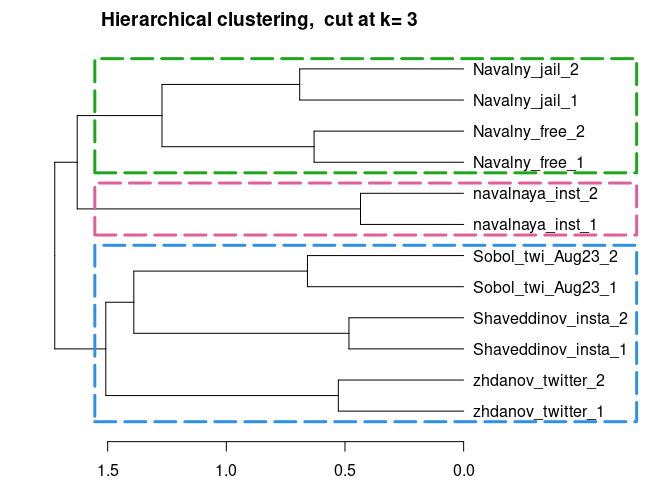
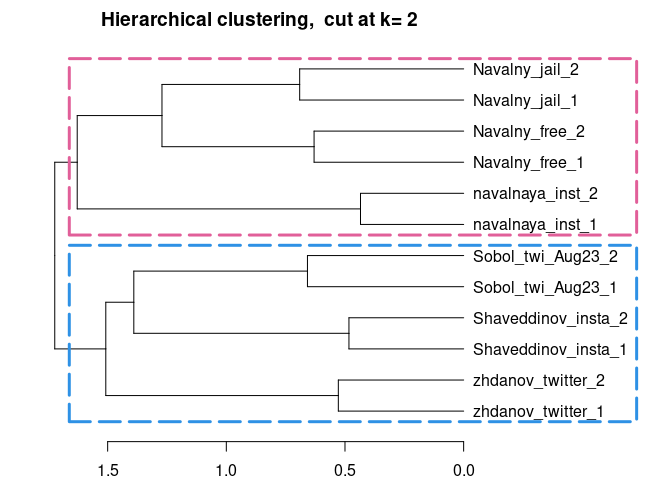
impostors update

diff --git a/stylometry_navalny.md b/stylometry_navalny.md
@@ -3,6 +3,7 @@ AA: Navalny
 Artjoms Šeļa
 2023-08-17
 
+- <a href="#tldr-so-far" id="toc-tldr-so-far">tl;dr (so far)</a>
 - <a href="#setup" id="toc-setup">Setup</a>
 - <a href="#data-wrangling--book-keeping"
   id="toc-data-wrangling--book-keeping">Data wrangling &amp; book
@@ -21,7 +22,40 @@ Artjoms Šeļa
   - <a href="#character-n-grams" id="toc-character-n-grams">Character
     n-grams</a>
   - <a href="#words" id="toc-words">Words</a>
-- <a href="#tldr-so-far" id="toc-tldr-so-far">tl;dr (so far)</a>
+- <a href="#general-impostors" id="toc-general-impostors">General
+  impostors</a>
+  - <a href="#impostors-larger-samples"
+    id="toc-impostors-larger-samples">Impostors: larger samples</a>
+  - <a href="#impostors-char-n-grams"
+    id="toc-impostors-char-n-grams">Impostors: char n-grams</a>
+
+## tl;dr (so far)
+
+For now: `Navalny_free` vs `Navalny_jail` samples show stable
+bootstrapped differences. Dendograms and consensus trees, however,
+indicate that both Navalnys share some degree of similarity. It is
+unclear how distance distributions are driven by random sampling and
+topical/register differences.
+
+////
+
+So far, there is **no other candidate author, except Navalny himself**,
+that emerges for `Navalny_jail`.
+
+////
+
+General impostors method (testing `Navalny_jail` against each candidate
+class separately) is skewing towards Navalny’s authorhsip, and is more
+decisive on larger sample sizes (both for words and char n-grams).
+However, there is enough evidence **to doubt GI’s confidence at
+eliminating candidates** with the current data.
+
+It looks as if the between-author relationships are muddied, very much
+dependent on analysed features and thematic/time differences between
+texts. It might suggests that ‘Navalny free’ corpus is stylistically
+heterogenous too: look how uncharacteristically high its mean distance
+is, and compare to very much distinct voice of Navalnaya. More corpus
+control/checks are needed.
 
 ## Setup
 
@@ -188,7 +222,7 @@ candidates for excluding from analysis.
 
 ``` r
 view_tree(st_words,
-          k=3,
+          k=2,
           right_margin = 10,
           p=0.05)
 ```
@@ -340,22 +374,148 @@ d_res_w %>%
 
 ![](stylometry_navalny_files/figure-gfm/unnamed-chunk-11-1.png)<!-- -->
 
-## tl;dr (so far)
+## General impostors
 
-For now: `Navalny_free` vs `Navalny_jail` samples show stable
-bootstrapped differences. Dendograms and consensus trees, however,
-indicate that both Navalnys share fleeting distant similarity. It is
-unclear how distance distributions are driven by random sampling and
-topical/register differences. So far, there is no other candidate author
-emerging for `Navalny_jail`.
+Let’s run general impostors method on larger samples and words
+frequencies. We also will remove words that influence overarching
+clustering.
 
-It looks as if the between-author relationships are mudded, very much
-dependent on analysed features and thematic/time differences between
-texts. It might suggests that ‘Navalny free’ corpus is stylistically
-heterogenous too: look how uncharacteristically high its mean distance
-is, and compare to very much distinct voice of Navalnaya. More corpus
-control/checks are needed.
+The goal of the method is determine the *affinity* of a target sample
+(in our case - Navalny in jail) to a set of candidates/impostors.
+Imposters are there to provide a stylistic alternative bucket to a
+candidate (in our case - free Navalny). Method records the proportion of
+times target text fit to each candidate class (nearest-neighbor method).
 
-Problems: hard to take independent random samples with how it is
-implemented in stylo, so Document 1 vs. Document 1 measures might be
-contaminated, which inflates same-class similarities.
+Words that we are excluding based on feature-to-cluster association:
+
+`россия` `навальный` `война` `мир` `против` `человек`
+
+``` r
+strong_words <- c("^росси", "^навальн", "^войн", "^мир", "^против$", "^челов")
+```
+
+Start with some manual stylo labor in the bowels of this library.
+
+``` r
+# loading the files from a specified directory:
+tokenized.texts = load.corpus.and.parse(files = list.files("corpus_clean/",full.names = T),sampling = "normal.sampling",sample.size = 2500)
+
+# computing a list of most frequent words (trimmed to top 2000 items):
+features = make.frequency.list(tokenized.texts, head = 5000)
+# producing a table of relative frequencies:
+data = make.table.of.frequencies(tokenized.texts, features, relative = TRUE)[,1:200]
+## detecting strong content words
+s_words <- str_detect(colnames(data),paste(strong_words,collapse="|"))
+
+data <- data[,!s_words]
+
+rownames(data) <- rownames(data) %>% str_remove_all("corpus_clean//")
+rownames(data) <- str_replace_all(rownames(data), "Navalny_jail", "NavalnyJail")
+```
+
+Now, let’s try to determine the ‘confidence scope’ for a given corpus.
+Values between which lies the uncertain ‘i don’t know’ zone.
+
+``` r
+imposters.optimize(data,distance="wurzburg")
+```
+
+    ## [1] 0.08 0.55
+
+Values range from very very small to 0.64. What it tells us, is that it
+is extremely hard to say “this is not THE author”, to make any decision
+regarding the **exclusion of a candidate**. Also, this leaves with a
+little space “this is likely the author”. In the end it just means ‘take
+everything with a grain of salt’.
+
+``` r
+for(s in c(5,6,7)) {
+
+r <- imposters(reference.set = data[-c(5:7),],test = data[c(s),],features = 0.5,iterations = 1000,distance="wurzburg")
+
+  
+print(paste0(rownames(data)[s], " against candidates:"))
+print(r)
+  
+  
+}
+```
+
+    ## [1] "NavalnyJail_1 against candidates:"
+    ##   navalnaya     Navalny Shaveddinov       Sobol     zhdanov 
+    ##       0.045       0.466       0.211       0.372       0.085 
+    ## [1] "NavalnyJail_2 against candidates:"
+    ##   navalnaya     Navalny Shaveddinov       Sobol     zhdanov 
+    ##       0.225       0.801       0.156       0.058       0.007 
+    ## [1] "NavalnyJail_3 against candidates:"
+    ##   navalnaya     Navalny Shaveddinov       Sobol     zhdanov 
+    ##       0.234       0.556       0.013       0.517       0.095
+
+### Impostors: larger samples
+
+``` r
+# loading the files from a specified directory:
+tokenized.texts = load.corpus.and.parse(files = list.files("corpus_clean/",full.names = T))
+
+# computing a list of most frequent words (trimmed to top 2000 items):
+features = make.frequency.list(tokenized.texts, head = 5000)
+
+# producing a table of relative frequencies:
+data = make.table.of.frequencies(tokenized.texts, features, relative = TRUE)[,1:200]
+data = data[,!s_words]
+
+rownames(data) <- rownames(data) %>% str_remove_all("corpus_clean//")
+rownames(data) <- str_replace_all(rownames(data), "Navalny_jail", "NavalnyJail")
+
+
+r <- imposters(reference.set = data[-c(3),],test = data[c(3),],features = 0.5,iterations = 1000,distance="wurzburg")
+
+
+print("NavalnyJail vs. candidates")
+```
+
+    ## [1] "NavalnyJail vs. candidates"
+
+``` r
+print(r)
+```
+
+    ##   navalnaya     Navalny Shaveddinov       Sobol     zhdanov 
+    ##       0.419       0.914       0.021       0.296       0.066
+
+Navalny is the nearest neighbor of NavalnyJail when tested as a
+candidate in 91% of runs, which is quite high. The problem is that it
+does not really *eliminate* other candidates. But the affinity between
+Jail and Free is, somewhat, there.
+
+### Impostors: char n-grams
+
+``` r
+# loading the files from a specified directory:
+tokenized.texts = load.corpus.and.parse(files = list.files("corpus_clean/",full.names = T),features = "c",ngram.size = 4)
+
+# computing a list of most frequent words (trimmed to top 2000 items):
+features = make.frequency.list(tokenized.texts, head = 5000)
+
+# producing a table of relative frequencies:
+data = make.table.of.frequencies(tokenized.texts, features, relative = TRUE)[,1:200]
+data = data[,!s_words]
+
+rownames(data) <- rownames(data) %>% str_remove_all("corpus_clean//")
+rownames(data) <- str_replace_all(rownames(data), "Navalny_jail", "NavalnyJail")
+
+
+r <- imposters(reference.set = data[-c(3),],test = data[c(3),],features = 0.5,iterations = 1000,distance="wurzburg")
+
+
+print("NavalnyJail vs. candidates (char n-grams")
+```
+
+    ## [1] "NavalnyJail vs. candidates (char n-grams"
+
+``` r
+print(r)
+```
+
+    ##   navalnaya     Navalny Shaveddinov       Sobol     zhdanov 
+    ##       0.413       0.954       0.041       0.182       0.093
